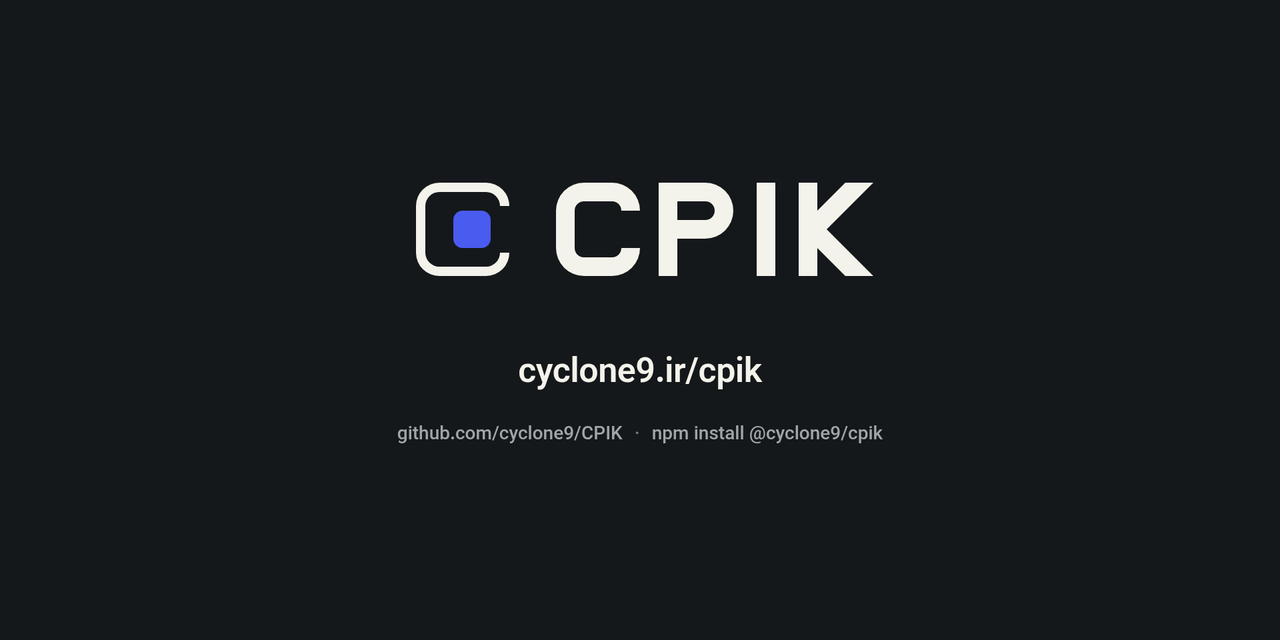
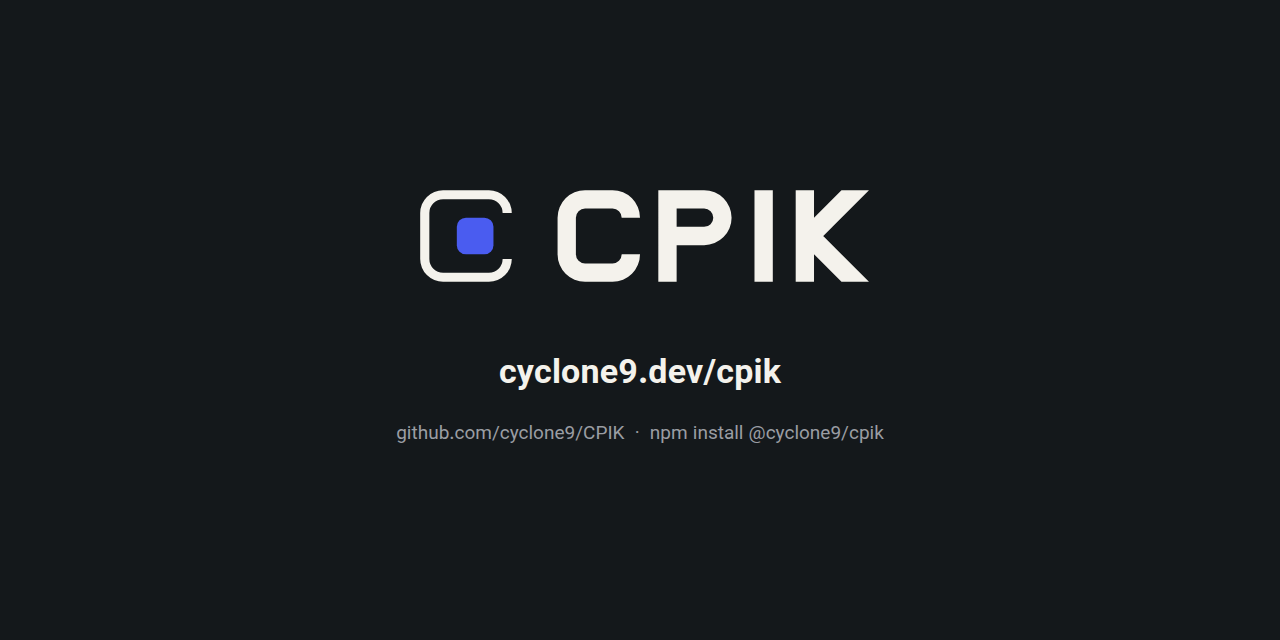
Move the preview to cpik.cyclone9.dev and links to cyclone9.dev
- Preview page on the custom domain https://cpik.cyclone9.dev/ (GitHub Pages)
- Product and author links, LICENSE and README point to cyclone9.dev
- Social preview image and link-preview tags use the new addresses

diff --git a/dist/index.html b/dist/index.html
@@ -10,18 +10,18 @@
   <meta property="og:site_name" content="CPIK">
   <meta property="og:title" content="CPIK - CyClone Power Icon Kit">
   <meta property="og:description" content="کیت CPIK آیکون بانکها، پلتفرمها، سرویسها و برندهای ایرانی را یکجا میدهد. یک فایل استایل را لینک کنید تا هر آیکون با یک نام کلاس در دسترس باشد.">
-  <meta property="og:url" content="https://cyclone9.github.io/CPIK/">
+  <meta property="og:url" content="https://cpik.cyclone9.dev/">
   <meta property="og:locale" content="fa_IR">
-  <meta property="og:image" content="https://cyclone9.github.io/CPIK/assets/cpik-social-preview.png">
+  <meta property="og:image" content="https://cpik.cyclone9.dev/assets/cpik-social-preview.png">
   <meta property="og:image:type" content="image/png">
   <meta property="og:image:width" content="1280">
   <meta property="og:image:height" content="640">
-  <meta property="og:image:alt" content="لوگوی CPIK و نشانی cyclone9.ir/cpik">
+  <meta property="og:image:alt" content="لوگوی CPIK و نشانی cyclone9.dev/cpik">
   <meta name="twitter:card" content="summary_large_image">
   <meta name="twitter:title" content="CPIK - CyClone Power Icon Kit">
   <meta name="twitter:description" content="کیت CPIK آیکون بانکها، پلتفرمها، سرویسها و برندهای ایرانی را یکجا میدهد. یک فایل استایل را لینک کنید تا هر آیکون با یک نام کلاس در دسترس باشد.">
-  <meta name="twitter:image" content="https://cyclone9.github.io/CPIK/assets/cpik-social-preview.png">
-  <meta name="twitter:image:alt" content="لوگوی CPIK و نشانی cyclone9.ir/cpik">
+  <meta name="twitter:image" content="https://cpik.cyclone9.dev/assets/cpik-social-preview.png">
+  <meta name="twitter:image:alt" content="لوگوی CPIK و نشانی cyclone9.dev/cpik">
   <link rel="icon" href="assets/favicon/favicon.svg" type="image/svg+xml">
   <link rel="icon" href="assets/favicon/favicon.ico" sizes="32x32">
   <link rel="apple-touch-icon" href="assets/favicon/apple-touch-icon.png">
@@ -4136,7 +4136,7 @@
     <div class="wrap">
       <p lang="en" dir="ltr">
         &copy; <span id="copyright-years">2026</span>
-        <a href="https://cyclone9.ir/cpik">CyClone</a>
+        <a href="https://cyclone9.dev/cpik">CyClone</a>
         · <bdi dir="ltr">CPIK - CyClone Power Icon Kit</bdi>
         <span class="footer-version" data-version-output></span>
       </p>

diff --git a/CHANGELOG.md b/CHANGELOG.md
@@ -6,6 +6,8 @@
 
 ## منتشرنشده
 
+- نشانی تازهی صفحهی پیشنمایش: https://cpik.cyclone9.dev (نشانی قبلی در GitHub Pages به آن منتقل میشود). پیوند صفحهی محصول و نشانی CyClone در کیت حالا `cyclone9.dev` است.
+
 ## 0.1.9 - 2026-10-26
 
 - دو آیکون تازه: کافهبازار (`cpik-shop-cafebazaar`) در «فروشگاه و نیازمندیها» و قطار رجا (`cpik-transport-raja`) در «حمل و نقل».
@@ -20,7 +22,7 @@
 - دو دستهی تازه: «پست و ارسال» و «خدمات دولتی». شرکت ملی پست حالا `cpik-shipping-post`، تیپاکس `cpik-shipping-tipax` و نماد اعتماد الکترونیکی `cpik-gov-e-namad` است؛ نامهای قدیمی (`cpik-post`، `cpik-tipax`، `cpik-e-namad`) همچنان همان آیکونها را نشان میدهند.
 - سی آیکون تازه برای نقشهی استانها، همهی استانها بهجز تهران که از قبل بود؛ مثل `cpik-map-isfahan`، `cpik-map-east-azarbaijan` و `cpik-map-north-khorasan`. با نام استان، «استان …» یا نام مرکز استان پیدا میشوند.
 - نقشهی ایران (`cpik-map-iran`) و نقشهی ایران با دریاها (`cpik-map-iran-seas`): استان خراسان شمالی که در دادهی اصلی نقشه جا افتاده بود اضافه شد و مرز شمال شرقی حالا کامل است.
-- پیوند مستقیم به هر آیکون: نشانیای مثل `https://cyclone9.github.io/CPIK/#bank-blue` پنجرهی جزئیات همان آیکون را باز میکند و دکمهی «کپی پیوند» در این پنجره، پیوند آیکون را کپی میکند.
+- پیوند مستقیم به هر آیکون: نشانیای مثل `https://cpik.cyclone9.dev/#bank-blue` پنجرهی جزئیات همان آیکون را باز میکند و دکمهی «کپی پیوند» در این پنجره، پیوند آیکون را کپی میکند.
 - صفحهی پیشنمایش: با کلید / به جستجو بروید و با کلیدهای جهت میان آیکونها جابهجا شوید.
 - صفحهی پیشنمایش: اندازهی آیکونهای گالری را میشود ۱۶، ۲۴ یا ۴۸ پیکسل گذاشت و انتخاب شما در مرورگر میماند.
 - پیوند صفحهی پیشنمایش در شبکههای اجتماعی و پیامرسانها با تصویر و توضیح نمایش داده میشود.

diff --git a/README.md b/README.md
@@ -14,7 +14,7 @@
 
 <p align="center">نگاهی ۲۹ ثانیهای به CPIK. برای دیدن ویدیو روی تصویر بزنید.</p>
 
-همهی آیکونها را در صفحهی پیشنمایش ببینید و جستجو کنید: https://cyclone9.github.io/CPIK/
+همهی آیکونها را در صفحهی پیشنمایش ببینید و جستجو کنید: https://cpik.cyclone9.dev/
 
 ## شروع سریع
 
@@ -149,7 +149,7 @@ npm run preview -- 8080    # serves dist/ on http://127.0.0.1:8080
 
 ## مجوز
 
-کد، فایلهای فونت و فایل استایل کیت با مجوز MIT منتشر شدهاند، Copyright (c) 2026 CyClone (https://cyclone9.ir). متن کامل مجوز در [LICENSE](LICENSE) است.
+کد، فایلهای فونت و فایل استایل کیت با مجوز MIT منتشر شدهاند، Copyright (c) 2026 CyClone (https://cyclone9.dev). متن کامل مجوز در [LICENSE](LICENSE) است.
 
 مجوز MIT شامل لوگوهای داخل کیت نمیشود. هر لوگو علامت تجاری صاحب آن است. کیت CPIK فقط آنها را نمایش میدهد و استفاده از هر لوگو به معنای همکاری با آن برند نیست. لوگوی CPIK و ویدیوی معرفی و تصویر آن در پوشهی [assets/](assets/) متعلق به CyClone است و همهی حقوق آنها محفوظ است؛ موسیقی ویدیو هم جزو مجوز MIT نیست. مرز دریاها در آیکون `cpik-map-iran-seas` از دادههای Natural Earth است که مالکیت عمومی دارد. فونت وزیرمتن که صفحهی پیشنمایش از آن استفاده میکند، مجوز SIL Open Font License دارد ([assets/fonts/OFL.txt](assets/fonts/OFL.txt)).
 
